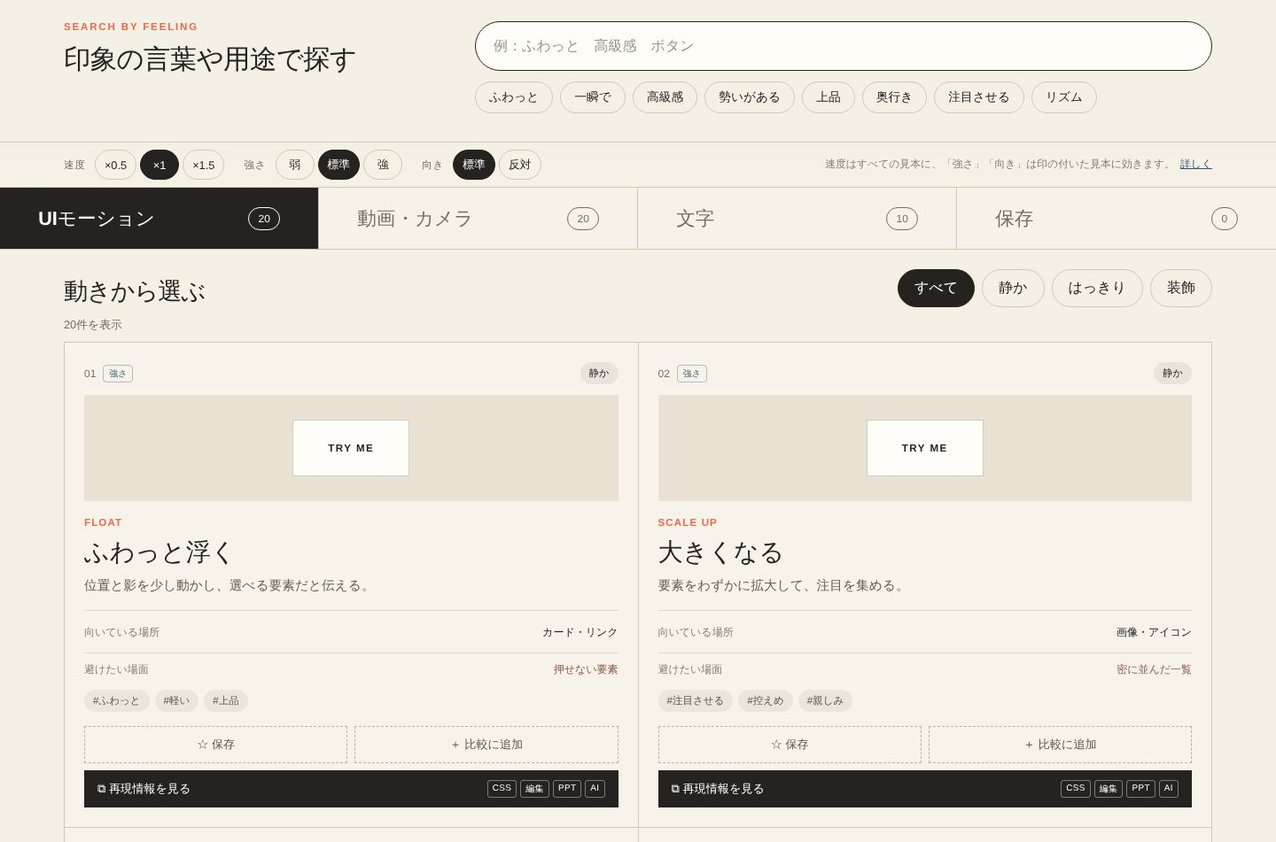
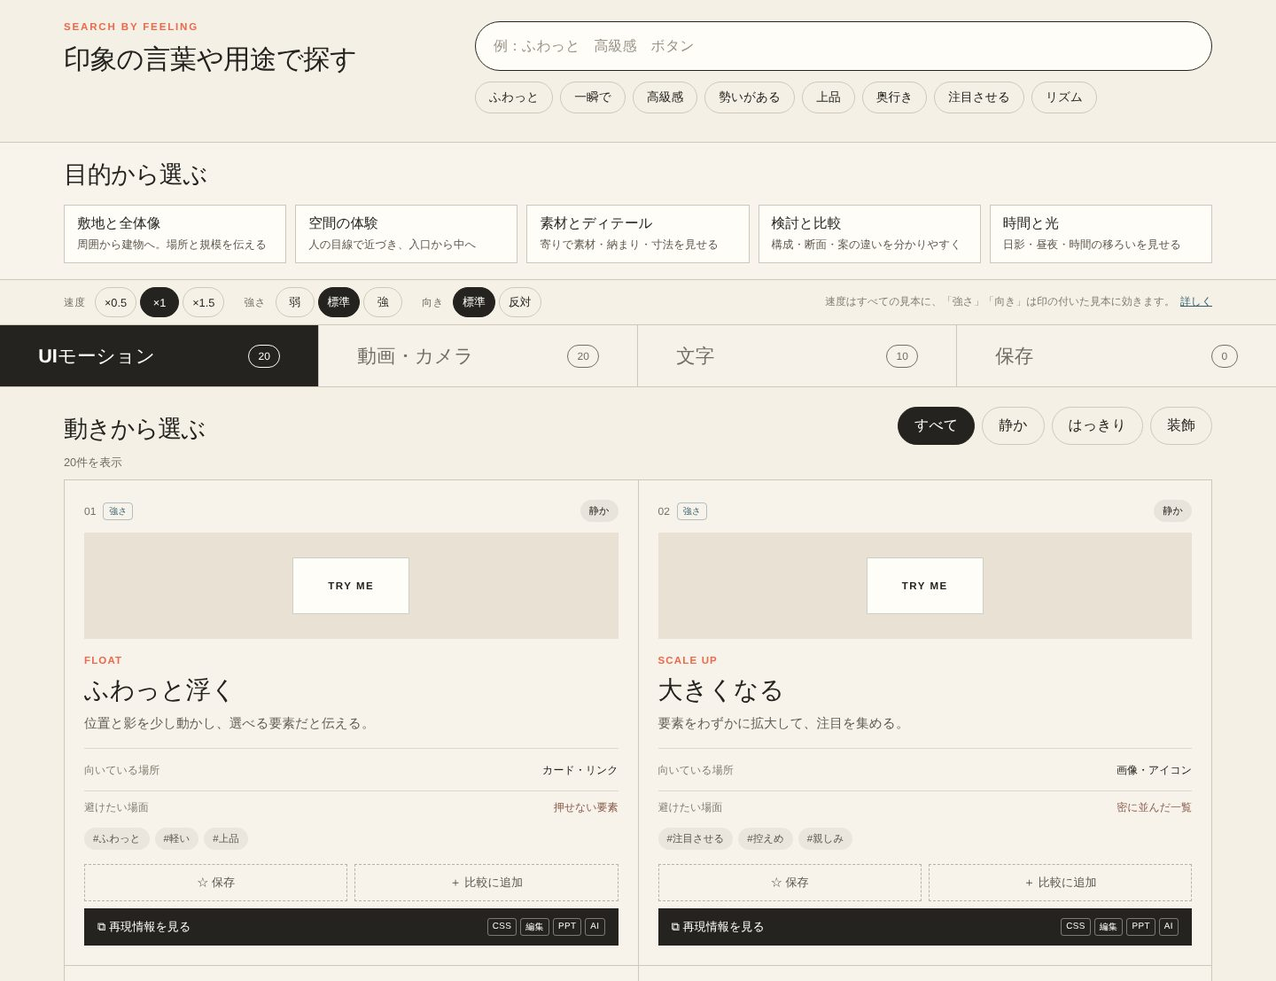
feat: v1.0-1 choose samples by presentation purpose (#15)
- Add src/purposes.ts: five purposes (site & overview, spatial experience, material & detail, study & comparison, time & light) with samples in recommended order, and shot scale for camera samples (wide / medium / close / eye level)
- Add "目的から選ぶ" entrances above the playback bar; selecting one filters all three libraries, orders cards by recommendation, opens the best tab, and shows a description with a clear button; combines with search
- Show shot scale badges on camera cards; make purpose names and scale searchable
- Add the "目的から選ぶ" guide section and map item; assign map letters in screen order; retake the screen map
- Rewrite ROADMAP v1.0 as "目的と流れで組む" (reviewed against similar services and archviz practice) and update README

Claude-Session: https://claude.ai/code/session_01VCgd4bt3QxAx6uUzWaKxAk

diff --git a/src/main.ts b/src/main.ts
@@ -4,6 +4,7 @@ import {
   finderWords, strengthSamples, directionSamples, settingOptions, defaultSettings, suggestedCollections,
 } from './data'
 import { type Recipe, recipes, recipeTools, missingRecipes } from './recipes'
+import { purposes, purposeById, purposesOf, shotScale, shotScaleNote } from './purposes'
 
 const totalSamples = samples.length + videoSamples.length + textSamples.length
 /** 番号（01 / V01 / T01）から見本を引く。比較パネルで使う */
@@ -42,6 +43,7 @@ const normalize = (text: string) => text
 
 const searchText = (sample: Sample) => normalize([
   sample.name, sample.english, sample.description, sample.categoryLabel, sample.hint, ...sample.feel,
+  shotScale[sample.number] ?? '', ...purposesOf(sample.number).map((purpose) => purpose.name),
 ].join(' '))
 
 
@@ -54,7 +56,13 @@ const adjustBadges = (sample: Sample) => {
   return labels.length ? `<span class="adjust-badges" title="「強さ」「向き」の調整が効く見本">${labels.map((label) => `<i>${label}</i>`).join('')}</span>` : ''
 }
 
-const cardId = (sample: Sample) => `<span class="card-id"><span class="number">${sample.number}</span>${adjustBadges(sample)}</span>`
+/** カットの大きさの印（引き・中・寄り・目線）。カメラ系の見本だけに付く */
+const scaleBadge = (sample: Sample) => {
+  const scale = shotScale[sample.number]
+  return scale ? `<span class="scale-badge" title="カットの大きさ：${shotScaleNote[scale]}">${scale}</span>` : ''
+}
+
+const cardId = (sample: Sample) => `<span class="card-id"><span class="number">${sample.number}</span>${scaleBadge(sample)}${adjustBadges(sample)}</span>`
 
 
 const playbackControls = (idPrefix: string) => `
@@ -105,6 +113,23 @@ app.innerHTML = `
         ${finderWords.map((word) => `<button class="finder-chip" type="button" data-feel="${word}">${word}</button>`).join('')}
       </div>
       <p class="finder-status" aria-live="polite"></p>
+    </section>
+
+    <section class="purpose-bar" aria-labelledby="purpose-title">
+      <div class="purpose-head">
+        <p class="eyebrow">CHOOSE BY PURPOSE</p>
+        <h2 id="purpose-title">目的から選ぶ</h2>
+        <p>プレゼンで何を伝えたいかから、使う見本をしぼります。並びは、その目的で使う順のおすすめです。</p>
+      </div>
+      <div class="purpose-list" role="group" aria-label="目的">
+        ${purposes.map((purpose) => `
+          <button class="purpose-card" type="button" data-purpose="${purpose.id}" aria-pressed="false">
+            <strong>${purpose.name}</strong>
+            <span>${purpose.summary}</span>
+            <small>${purpose.samples.length}種類</small>
+          </button>`).join('')}
+      </div>
+      <p class="purpose-status" aria-live="polite" hidden><span></span><button class="purpose-clear" type="button">目的の選択を解除</button></p>
     </section>
 
     <section class="playback-bar" aria-label="再生の調整">
@@ -286,7 +311,7 @@ const uiScenes: Record<string, string> = {
 }
 
 grid.innerHTML = samples.map((sample) => `
-  <article class="sample-card" data-category="${sample.category}" data-search="${searchText(sample)}">
+  <article class="sample-card" data-number="${sample.number}" data-category="${sample.category}" data-search="${searchText(sample)}">
     <div class="card-top">
       ${cardId(sample)}
       <span class="tag">${sample.categoryLabel}</span>
@@ -426,7 +451,7 @@ const cameraScenes: Record<string, string> = {
 const videoGrid = document.querySelector<HTMLDivElement>('#video-grid')!
 
 videoGrid.innerHTML = videoSamples.map((sample) => `
-  <article class="sample-card video-card" data-search="${searchText(sample)}">
+  <article class="sample-card video-card" data-number="${sample.number}" data-search="${searchText(sample)}">
     <div class="card-top">
       ${cardId(sample)}
       <span class="tag video-tag">${sample.categoryLabel}</span>
@@ -490,7 +515,7 @@ const textScenes: Record<string, string> = {
 }
 
 textGrid.innerHTML = textSamples.map((sample) => `
-  <article class="sample-card text-card" data-search="${searchText(sample)}">
+  <article class="sample-card text-card" data-number="${sample.number}" data-search="${searchText(sample)}">
     <div class="card-top">
       ${cardId(sample)}
       <span class="tag text-tag">${sample.categoryLabel}</span>
@@ -536,6 +561,9 @@ const finderClear = document.querySelector<HTMLButtonElement>('.finder-clear')!
 const finderStatus = document.querySelector<HTMLParagraphElement>('.finder-status')!
 const finderChips = [...document.querySelectorAll<HTMLButtonElement>('.finder-chip')]
 let uiFilter = 'all'
+let activePurpose: string | null = null
+const purposeCards = [...document.querySelectorAll<HTMLButtonElement>('.purpose-card')]
+const purposeStatus = document.querySelector<HTMLParagraphElement>('.purpose-status')!
 
 const queryTerms = () => normalize(finderInput.value).split(/\s+/).filter(Boolean)
 
@@ -552,7 +580,12 @@ const applyFilters = () => {
       const text = card.dataset.search ?? ''
       const matchesQuery = terms.every((term) => text.includes(term))
       const matchesCategory = library !== 'ui' || uiFilter === 'all' || card.dataset.category === uiFilter
-      const show = matchesQuery && matchesCategory
+      const purpose = activePurpose ? purposeById.get(activePurpose) : null
+      const purposeIndex = purpose ? purpose.samples.indexOf(card.dataset.number ?? '') : -1
+      const matchesPurpose = !purpose || purposeIndex >= 0
+      // 目的を選んでいる間は、おすすめの順に並べる
+      card.style.order = purpose && purposeIndex >= 0 ? String(purposeIndex) : ''
+      const show = matchesQuery && matchesCategory && matchesPurpose
       card.hidden = !show
       if (show) visible += 1
     })
@@ -566,17 +599,32 @@ const applyFilters = () => {
     if (count !== undefined) tab.querySelector('[data-tab-count]')!.textContent = String(count)
   })
 
-  finderClear.hidden = terms.length === 0
+  finderClear.hidden = terms.length === 0 && !activePurpose
   finderChips.forEach((chip) => chip.classList.toggle('is-active', terms.includes(normalize(chip.dataset.feel!))))
+  purposeCards.forEach((card) => {
+    const selected = card.dataset.purpose === activePurpose
+    card.classList.toggle('is-active', selected)
+    card.setAttribute('aria-pressed', String(selected))
+  })
 
-  if (terms.length === 0) {
+  purposeStatus.hidden = !activePurpose
+  if (activePurpose) {
+    const purpose = purposeById.get(activePurpose)!
+    purposeStatus.querySelector('span')!.textContent = `「${purpose.name}」：${purpose.description} 下の見本は、使う順のおすすめに並んでいます（${Object.keys(libraryNames).map((key) => `${libraryNames[key]} ${counts[key]}`).join('／')}）。`
+  }
+
+  if (terms.length === 0 && !activePurpose) {
     finderStatus.textContent = ''
     return
   }
+  const conditions = [
+    activePurpose ? `目的「${purposeById.get(activePurpose)!.name}」` : '',
+    terms.length ? `「${finderInput.value.trim()}」` : '',
+  ].filter(Boolean).join('と')
   const total = Object.values(counts).reduce((sum, count) => sum + count, 0)
   finderStatus.textContent = total === 0
-    ? `「${finderInput.value.trim()}」に合う見本はありません。言葉を減らすか、別の言い方で試してください。`
-    : `「${finderInput.value.trim()}」に合う見本：${Object.keys(libraryNames).map((key) => `${libraryNames[key]} ${counts[key]}`).join('／')}`
+    ? `${conditions}に合う見本はありません。言葉を減らすか、別の言い方で試してください。`
+    : `${conditions}に合う見本：${Object.keys(libraryNames).map((key) => `${libraryNames[key]} ${counts[key]}`).join('／')}`
 
   // 今のタブに結果がなく、ほかのタブにある場合は、結果のあるタブへ切り替える
   const activeLibrary = libraryTabs.find((tab) => tab.classList.contains('is-active'))?.dataset.library
@@ -596,8 +644,28 @@ filters.forEach((button) => {
 
 finderInput.addEventListener('input', applyFilters)
 
+/** 目的の入口：押すとその目的で絞り込み、もう一度押すと解除。検索語とは組み合わせて使える */
+purposeCards.forEach((card) => {
+  card.addEventListener('click', () => {
+    activePurpose = activePurpose === card.dataset.purpose ? null : card.dataset.purpose!
+    applyFilters()
+    // 目的を選んだときは、件数の多いタブ（ふつうは動画・カメラ）を開く
+    if (activePurpose) {
+      const purpose = purposeById.get(activePurpose)!
+      const firstVisible = ['video', 'ui', 'text'].find((library) => document.querySelector(`[data-library-panel="${library}"] .sample-card[data-number="${purpose.samples[0]}"]`))
+      if (firstVisible) selectLibrary(firstVisible)
+    }
+  })
+})
+
+document.querySelector('.purpose-clear')!.addEventListener('click', () => {
+  activePurpose = null
+  applyFilters()
+})
+
 finderClear.addEventListener('click', () => {
   finderInput.value = ''
+  activePurpose = null
   applyFilters()
   finderInput.focus()
 })

diff --git a/src/guide.ts b/src/guide.ts
@@ -4,6 +4,7 @@ import {
   samples, videoSamples, textSamples, allSamples,
   finderWords, strengthSamples, directionSamples, settingOptions, suggestedCollections,
 } from './data'
+import { purposes, shotScaleNote } from './purposes'
 import { recipeTools } from './recipes'
 import mapData from './guide-map.json'
 
@@ -30,6 +31,7 @@ const optionLabels = (setting: keyof typeof settingOptions) => settingOptions[se
 const mapItems: { n: number, title: string, summary: string, section: string, side?: 'left' | 'right' }[] = [
   { n: 1, title: '検索欄', summary: '思い浮かんだ言葉で3つの見本帳を探す', section: 'search' },
   { n: 2, title: '感覚語のボタン', summary: '押すだけで検索語に追加・解除', section: 'search' },
+  { n: 13, title: '目的から選ぶ', summary: '伝えたいことから見本をしぼり、使う順に並べる', section: 'purpose' },
   { n: 3, title: '調整バー', summary: '速度・強さ・向きを変える', section: 'adjust' },
   { n: 4, title: 'タブ', summary: '見本帳と保存を切り替える（数字は件数）', section: 'libraries' },
   { n: 5, title: '雰囲気の絞り込み', summary: 'UIを「静か・はっきり・装飾」で絞る', section: 'libraries' },
@@ -45,7 +47,8 @@ const mapItems: { n: number, title: string, summary: string, section: string, si
 const markerByNumber = new Map(mapData.markers.map((marker) => [marker.n, marker]))
 
 /** マップの記号はアルファベット（A, B, …）。説明の項目番号（01, 02, …）と区別する */
-const letterOf = (n: number) => String.fromCharCode(64 + n)
+/** mapItems の並び（画面の上から順）で A, B, C … を振る */
+const letterOf = (n: number) => String.fromCharCode(65 + mapItems.findIndex((item) => item.n === n))
 
 /** 説明の項目番号と見出し。マップの凡例に「→ 05 印象の言葉で探す」のように表示する */
 const sectionLabel = (id: string) => {
@@ -58,7 +61,7 @@ const renderMap = () => `
     <div class="guide-map-head">
       <p class="eyebrow">SCREEN MAP</p>
       <h2 id="map-title">画面の見方</h2>
-      <p>記号（A〜${letterOf(mapItems.length)}）を押すと、その部分の詳しい説明へ移動します。説明側の「画面マップへ戻る」で、ここに戻れます。</p>
+      <p>記号（A〜${letterOf(mapItems[mapItems.length - 1].n)}）を押すと、その部分の詳しい説明へ移動します。説明側の「画面マップへ戻る」で、ここに戻れます。</p>
     </div>
     <div class="guide-map-layout" style="--map-ratio: ${(mapData.width / mapData.height).toFixed(4)}">
       <figure class="map-figure">
@@ -144,6 +147,20 @@ const sections: Section[] = [
         <li>ひらがな・カタカナ、全角・半角の違いは気にしなくて大丈夫です（「フワット」でも見つかります）。</li>
         <li>今のタブに結果がなく、ほかのタブにある場合は、結果のあるタブへ自動で切り替わります。</li>
       </ul>`,
+  },
+  {
+    id: 'purpose',
+    title: '目的から選ぶ',
+    lead: '建築プレゼンで何を伝えたいかから、使う見本を選べます。',
+    body: `
+      <p>検索欄の下にある5つの入口のどれかを押すと、3つの見本帳をまとめて絞り込みます。見本は、その目的で<strong>使う順のおすすめ</strong>に並びます。もう一度押すか「目的の選択を解除」で元に戻ります。検索語と組み合わせることもできます。</p>
+      <table class="g-table">
+        <thead><tr><th>目的</th><th>どんなときに使うか</th></tr></thead>
+        <tbody>${purposes.map((purpose) => `<tr><td>${purpose.name}</td><td>${purpose.description}</td></tr>`).join('')}</tbody>
+      </table>
+      <h4>カットの大きさの印</h4>
+      <p>カメラ系の見本には、番号の横にカットの大きさを示す印があります。「周囲 → 建物 → ディテール」のように、引きから寄りへ順に組むのが基本です。</p>
+      <ul class="g-list">${Object.entries(shotScaleNote).map(([scale, note]) => `<li><span class="scale-badge">${scale}</span>　${note}</li>`).join('')}</ul>`,
   },
   {
     id: 'compare',
@@ -251,6 +268,7 @@ const sections: Section[] = [
 
 /** 更新履歴。新しいものを上に追加する */
 const changelog: [string, string][] = [
+  ['v1.0（準備中）', '目的から選ぶ入口（敷地と全体像／空間の体験／素材とディテール／検討と比較／時間と光）と、カットの大きさの印（引き・中・寄り・目線）'],
   ['v0.6', '動画・カメラに建築寄りの8種類（日影の移動、平面図から立体へ、分解／組み上げ、クレーンアップ、プルバック、フライスルー、線画からレンダーへ、ミニチュア）、UIモーションに10種類（前後比較スライダー、画像のクリップ表示、視差、ケン・バーンズ、詳細へ拡大、カードの裏返し、カーテン遷移、グリッドの並び替え、横スクロール、ピンが落ちる）、文字に5種類（字間が開く、線で描かれる文字、数字のカウントアップ、寸法線と一緒に表示、引き出し線の注記）を追加し、合計50種類に'],
   ['v0.5', '再現情報（CSS、編集ソフト、PowerPoint、建築CG、生成AI）のコピー。建築CGの見本「断面カット」「デイ・トゥ・ナイト」を試験追加'],
   ['v0.4', '感覚語検索、2案比較、速度・強さ・向きの調整、保存とコレクション、使い方ページ'],

diff --git a/src/purposes.ts b/src/purposes.ts
@@ -1,0 +1,79 @@
+/**
+ * v1.0「目的と流れで組む」専門コレクション。
+ *
+ * 建築映像の組み立ては「周囲 → 建物 → 印象に残すディテール」「近づく → 入口 → 室内」のように、
+ * プレゼンの目的と流れでカットを選ぶのが基本。媒体（UI／動画／文字）ではなく目的から見本を探せるようにする。
+ *
+ * 見本を足したら、当てはまる目的の samples に番号を足す（複数の目的に入れてよい）。
+ * カメラ系の見本は shotScale にもカットの大きさを足す。
+ */
+
+export type Purpose = {
+  id: string
+  name: string
+  /** 入口に出すひとこと */
+  summary: string
+  /** 使い方ページなどで出す説明 */
+  description: string
+  /** 並びは、その目的で使う順のおすすめ */
+  samples: string[]
+}
+
+export const purposes: Purpose[] = [
+  {
+    id: 'site',
+    name: '敷地と全体像',
+    summary: '周囲から建物へ。場所と規模を伝える',
+    description: '冒頭で場所・周辺・建物の大きさを伝えるカット。引きの全景や俯瞰から始め、建物へ近づいていく。',
+    samples: ['V16', 'V20', 'V08', 'V05', 'V06', 'V17', '14', '20', 'T08'],
+  },
+  {
+    id: 'experience',
+    name: '空間の体験',
+    summary: '人の目線で近づき、入口から中へ',
+    description: '実際に訪れる順（近づく → 入口 → 室内）をなぞるカット。人の目線の高さで、ゆっくり進む動きが中心。',
+    samples: ['V09', 'V07', 'V18', '13'],
+  },
+  {
+    id: 'detail',
+    name: '素材とディテール',
+    summary: '寄りで素材・納まり・寸法を見せる',
+    description: '印象に残したい素材や納まりに寄るカット。ピント送りや寸法・注記と組み合わせて、何を見せたいかをはっきりさせる。',
+    samples: ['V04', 'V10', 'V17', 'T10', 'T09', '15'],
+  },
+  {
+    id: 'study',
+    name: '検討と比較',
+    summary: '構成・断面・案の違いを分かりやすく',
+    description: '設計の考え方や案の違いを説明するカット。平面から立体、分解、断面、前後比較など、図面に近い見せ方が中心。',
+    samples: ['V14', 'V15', 'V11', 'V19', '11', '16', 'V03', 'V13'],
+  },
+  {
+    id: 'time',
+    name: '時間と光',
+    summary: '日影・昼夜・時間の移ろいを見せる',
+    description: '日照や照明計画、時間による見え方の変化を伝えるカット。ゆっくりしたつなぎと組み合わせると余韻が出る。',
+    samples: ['V13', 'V12', 'V02'],
+  },
+]
+
+/** カットの大きさ。建築映像の「引き（全景・空撮）／中（建物全体）／寄り（ディテール）／目線（人の視点）」 */
+export type ShotScale = '引き' | '中' | '寄り' | '目線'
+
+export const shotScale: Record<string, ShotScale> = {
+  V04: '寄り', V05: '引き', V06: '引き', V07: '目線', V08: '引き', V09: '目線', V10: '寄り',
+  V11: '中', V12: '引き', V13: '引き', V14: '中', V15: '中', V16: '引き', V17: '寄り',
+  V18: '目線', V20: '引き',
+}
+
+export const shotScaleNote: Record<ShotScale, string> = {
+  引き: '全景・空撮。場所と規模を伝える',
+  中: '建物全体や構成が収まる大きさ',
+  寄り: '素材やディテールに寄る',
+  目線: '人の目の高さで空間を体験する',
+}
+
+export const purposeById = new Map(purposes.map((purpose) => [purpose.id, purpose]))
+
+/** 番号から、その見本が入っている目的の一覧 */
+export const purposesOf = (number: string) => purposes.filter((purpose) => purpose.samples.includes(number))

diff --git a/src/style.css b/src/style.css
@@ -186,6 +186,27 @@ body.has-compare-tray footer { padding-bottom: 110px; }
 .recipe-dialog .compare-dialog-actions .recipe-copy-all.is-copied { background: var(--blue); border-color: var(--blue); }
 .recipe-block pre { margin: 0; padding: 12px 14px; overflow-x: auto; font-family: ui-monospace, SFMono-Regular, Menlo, Consolas, monospace; font-size: .78rem; line-height: 1.65; white-space: pre-wrap; word-break: break-word; color: #3f3c36; }
 
+/* v1.0 目的から選ぶ */
+.purpose-bar { padding: 36px 5vw 32px; border-bottom: 1px solid var(--line); background: rgba(255,253,247,.35); }
+.purpose-head { display: flex; flex-wrap: wrap; align-items: baseline; gap: 4px 18px; margin-bottom: 16px; }
+.purpose-head .eyebrow { width: 100%; margin: 0; color: var(--coral); }
+.purpose-head h2 { margin: 0; font-size: clamp(1.25rem, 2.2vw, 1.7rem); letter-spacing: -.02em; }
+.purpose-head p:last-child { margin: 0; font-size: .86rem; color: #5b574e; line-height: 1.7; }
+.purpose-list { display: grid; grid-template-columns: repeat(5, minmax(0, 1fr)); gap: 10px; }
+.purpose-card { display: grid; gap: 4px; align-content: start; min-height: 104px; padding: 14px 16px; text-align: left; border: 1px solid var(--line); background: var(--cream); cursor: pointer; transition: border-color .2s, background .2s, color .2s, transform .2s; }
+.purpose-card strong { font-size: .98rem; }
+.purpose-card span { font-size: .78rem; line-height: 1.55; color: #5b574e; }
+.purpose-card small { margin-top: 4px; font-size: .68rem; letter-spacing: .06em; color: #8a8478; }
+.purpose-card:hover { border-color: var(--ink); transform: translateY(-2px); }
+.purpose-card:focus-visible { outline: 3px solid var(--blue); outline-offset: 2px; }
+.purpose-card.is-active { background: var(--ink); border-color: var(--ink); color: var(--cream); }
+.purpose-card.is-active span, .purpose-card.is-active small { color: rgba(255,253,247,.75); }
+.purpose-status { margin: 14px 0 0; display: flex; flex-wrap: wrap; align-items: center; gap: 8px 14px; font-size: .84rem; line-height: 1.7; color: #3f3c36; }
+.purpose-status[hidden] { display: none; }
+.purpose-clear { border: 1px solid var(--line); background: transparent; border-radius: 999px; padding: 5px 12px; font-size: .78rem; cursor: pointer; }
+.purpose-clear:hover, .purpose-clear:focus-visible { border-color: var(--ink); }
+.scale-badge { font-style: normal; font-size: .62rem; padding: 2px 6px; border-radius: 4px; background: rgba(234,107,77,.14); color: #a8432b; font-weight: 600; }
+
 .library-tabs {
   display: grid;
   grid-template-columns: repeat(4, minmax(0, 1fr));
@@ -887,6 +908,10 @@ footer a { color: var(--ink); text-decoration: none; font-weight: 600; }
 @keyframes co-label { 0%,38% { opacity: 0; transform: translateX(-6px); } 55%,100% { opacity: 1; transform: none; } }
 @keyframes text-mask-up { from { transform: translateY(115%); } to { transform: translateY(0); } }
 
+@media (max-width: 1100px) {
+  .purpose-list { grid-template-columns: repeat(3, minmax(0, 1fr)); }
+}
+
 @media (max-width: 760px) {
   .site-header { padding-inline: 20px; }
   .edition { display: none; }
@@ -922,6 +947,9 @@ footer a { color: var(--ink); text-decoration: none; font-weight: 600; }
   .playback-note { width: 100%; }
   .collection-form { width: 100%; }
   .collection-delete { margin-left: 0; }
+  .purpose-bar { padding: 28px 20px; }
+  .purpose-list { grid-template-columns: repeat(2, minmax(0, 1fr)); }
+  .purpose-card { min-height: 0; padding: 12px; }
   .library-tabs { grid-template-columns: 1fr; }
   .library-tab { min-height: 70px; padding: 16px 20px; border-right: 0; border-bottom: 1px solid var(--line); }
   .library-tab:last-child { border-bottom: 0; }

diff --git a/src/guide.css b/src/guide.css
@@ -20,7 +20,7 @@
 .map-pin:hover, .map-pin:focus-visible, .map-pin.is-active { transform: translate(-60%, -50%) scale(1.18); background: var(--ink); }
 .map-pin:focus-visible { outline: 2px solid var(--blue); outline-offset: 3px; }
 .map-legend { margin: 0; padding: 0; list-style: none; display: grid; gap: 0; }
-.map-legend a { display: grid; grid-template-columns: 24px minmax(0, 1fr) auto; grid-template-areas: "num title dest" "num summary summary"; column-gap: 12px; row-gap: 0; padding: 4px 10px; border: 1px solid transparent; border-radius: 6px; color: var(--ink); text-decoration: none; }
+.map-legend a { display: grid; grid-template-columns: 24px minmax(0, 1fr) auto; grid-template-areas: "num title dest" "num summary summary"; column-gap: 12px; row-gap: 0; padding: 3px 10px; border: 1px solid transparent; border-radius: 6px; color: var(--ink); text-decoration: none; }
 .map-legend li.is-active a, .map-legend a:hover, .map-legend a:focus-visible { border-color: var(--line); background: rgba(255,253,247,.85); }
 .map-legend a:focus-visible { outline: 2px solid var(--blue); outline-offset: 1px; }
 .map-num { grid-area: num; display: grid; place-items: center; width: 24px; height: 24px; border-radius: 6px; background: var(--coral); color: #fff; font-size: .72rem; font-weight: 700; }
@@ -115,3 +115,5 @@ kbd { display: inline-block; padding: 1px 8px; margin: 1px 0; border: 1px solid 
 .back-letters { display: inline-flex; gap: 3px; }
 .guide-toc .toc-map { counter-increment: none; }
 .guide-toc .toc-map a::before { content: 'MAP'; font-size: .62rem; letter-spacing: .06em; padding-top: 3px; }
+
+.guide-section .scale-badge { font-size: .72rem; padding: 2px 7px; border-radius: 4px; background: rgba(234,107,77,.14); color: #a8432b; font-weight: 600; }

diff --git a/README.md b/README.md
@@ -44,6 +44,7 @@
 
 ## できること
 
+- 建築プレゼンの目的（敷地と全体像、空間の体験など）から見本を選び、使う順に並べて見る
 - 感覚語や用途で、3つの見本帳をまとめて検索する
 - 2つの見本を横に並べて、同時に再生して比べる
 - 速度・強さ・向きを変えて再生する
@@ -65,6 +66,7 @@
 2. `src/recipes.ts` に同じ番号で再現情報を足す（開発サーバーでは、足りないと警告が出ます）
 3. プレビューの画面とCSSを `src/main.ts`・`src/style.css` に足す
 4. 「強さ」「向き」が効く場合は `src/data.ts` の一覧に番号を足す（使い方ページにも自動で反映）
+5. 当てはまる目的と、カメラ系ならカットの大きさを `src/purposes.ts` に足す
 
 ## Roadmap
 
